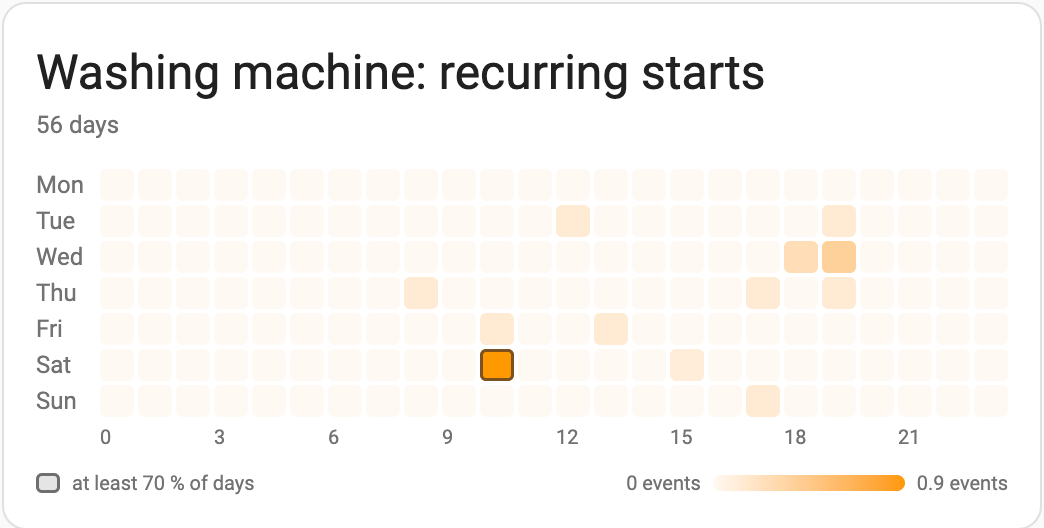
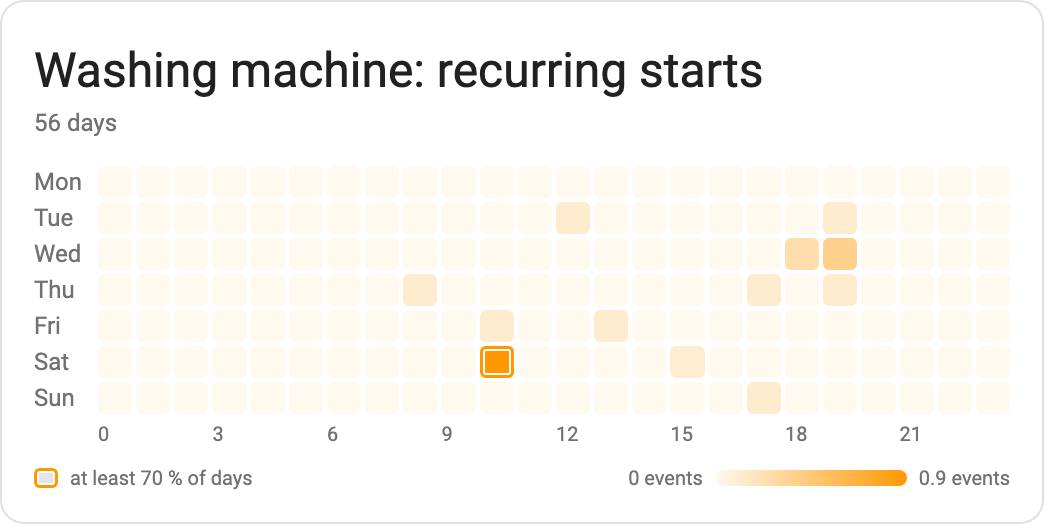
0.9.3: Rahmen der Regelmäßigkeit in der Farbe der Skala, Einzahl „1 Ereignis“
- Rahmen standardmäßig in der obersten Farbe der Skala in voller Deckkraft,
  innen eine feine Linie in der Kartenfarbe als Trennung zur Füllung
  (Variante D aus dem Vergleich in HA; Textfarbe mit 60 % ging unter)
- Einheit bei genau einem Ereignis in Einzahl, auch in Differenzen
- README-Bild neu

Claude-Session: https://claude.ai/code/session_01G4XKpiiZABPYbMXDVDQYXH

diff --git a/preview.html b/preview.html
@@ -108,7 +108,7 @@ customElements.define("ha-chart-base", class extends HTMLElement {
  * Lizenz: MIT
  */
 
-const CARD_VERSION = "0.9.2";
+const CARD_VERSION = "0.9.3";
 
 console.info(
   `%c PATTERN-CARD %c ${CARD_VERSION} `,
@@ -184,6 +184,7 @@ const I18N = {
     chart_unavailable: "Home Assistant's chart component could not be loaded",
     coarse: "hourly (finer statistics do not reach back far enough)",
     events_unit: "events",
+    events_unit_one: "event",
     stat_active: "Share active",
     stat_events: "Events",
     stat_mean: "Mean",
@@ -295,6 +296,7 @@ const I18N = {
     chart_unavailable: "Die Diagramm-Komponente von Home Assistant ließ sich nicht laden",
     coarse: "stündlich (feinere Statistik reicht nicht so weit zurück)",
     events_unit: "Ereignisse",
+    events_unit_one: "Ereignis",
     stat_active: "Anteil aktiv",
     stat_events: "Ereignisse",
     stat_mean: "Mittelwert",
@@ -1084,9 +1086,15 @@ const unitOf = (statistic, info, hass) => {
   return info.unit || "";
 };
 
-const withUnit = (text, unit) => {
+/** Einzahl der Einheit, wo es eine gibt („1 Ereignis“ statt „1 Ereignisse“). */
+const unitOneOf = (statistic, hass) => (statistic === "events" ? translate(hass, "events_unit_one") : undefined);
+
+const withUnit = (text, unit, one) => {
   if (!unit) return text;
-  return unit === "%" ? `${text} %` : `${text} ${unit}`;
+  if (unit === "%") return `${text} %`;
+  // genau eins (auch mit Vorzeichen): Einzahl; 0, Brüche und Mehrzahl bleiben bei der Mehrzahl
+  if (one && /^[+\u2212-]?1$/.test(String(text).trim())) return `${text} ${one}`;
+  return `${text} ${unit}`;
 };
 
 /* --------------------------------------------------------------------------
@@ -1225,7 +1233,7 @@ const buildGraph = (model, ctx) => {
       el.textContent = ctx.fmtTime(b[0]);
       return el;
     }
-    const v = (x) => escapeHtml(withUnit(ctx.fmtNumber(x), ctx.unit));
+    const v = (x) => escapeHtml(withUnit(ctx.fmtNumber(x), ctx.unit, ctx.unitOne));
     const marker = (c) => `<ha-chart-tooltip-marker color="${escapeHtml(c)}"></ha-chart-tooltip-marker>`;
     let rows = cumulative
       ? escapeHtml(ctx.fmtTime(b[k + 1]))
@@ -1380,9 +1388,13 @@ const STYLE = `
   }
   .has-rows .cell { height: 100%; min-height: 4px; }
   .cell.hover { outline: 2px solid var(--primary-text-color); outline-offset: -1px; }
-  /* Regelmäßigkeit: feiner Rahmen innen, ändert weder Füllfarbe noch Größe */
+  /* Regelmäßigkeit: Rahmen innen in der vollen Farbe der Skala (oder color), dahinter
+     eine feine Linie in der Kartenfarbe, die ihn von der Füllung trennt.
+     Ändert weder Füllfarbe noch Größe */
   .cell.regular, .legend .regular, .tooltip .marker.regular {
-    box-shadow: inset 0 0 0 1.5px var(--pc-regular-color, color-mix(in srgb, var(--primary-text-color) 60%, transparent));
+    box-shadow:
+      inset 0 0 0 1.5px var(--pc-regular-color, var(--pc-regular-heat, var(--primary-text-color))),
+      inset 0 0 0 2.5px var(--pc-regular-gap, var(--ha-card-background, var(--card-background-color, #000)));
   }
   .legend .regular {
     display: inline-block; width: 12px; height: 10px; flex: none;
@@ -1921,9 +1933,11 @@ class PatternCard extends HTMLElement {
     }
     const cumulative = m.statistic === "sum" && !!this._config.cumulative;
     const unit = unitOf(m.statistic, this._info, this._hass);
+    const unitOne = unitOneOf(m.statistic, this._hass);
     const { data, options } = buildGraph(m, {
       colors: this._colors(),
       unit,
+      unitOne,
       band: this._config.band || "both",
       hideLegend: !!this._config.hide_legend,
       cumulative,
@@ -1971,6 +1985,7 @@ class PatternCard extends HTMLElement {
     const names = weekdayNames(this._hass);
     const fmt = this._fmt();
     const unit = unitOf(m.statistic, this._info, this._hass);
+    const unitOne = unitOneOf(m.statistic, this._hass);
 
     // Skala
     let lo = cfg.min != null && cfg.min !== "" ? Number(cfg.min) : null;
@@ -2050,14 +2065,14 @@ class PatternCard extends HTMLElement {
     const regLegend = rc
       ? `<span class="regular"></span><span class="reg-text">${escapeHtml(this._t("regularity_legend", { threshold: fmt0(rc.threshold) }))}</span>`
       : "";
-    const scale = `<span dir="ltr">${escapeHtml(withUnit(fmt(lo), unit))}</span><span class="bar" style="background:${gradient}"></span><span dir="ltr">${escapeHtml(withUnit(fmt(hi), unit))}</span>`;
+    const scale = `<span dir="ltr">${escapeHtml(withUnit(fmt(lo), unit, unitOne))}</span><span class="bar" style="background:${gradient}"></span><span dir="ltr">${escapeHtml(withUnit(fmt(hi), unit, unitOne))}</span>`;
     // mit Regelmäßigkeit: Skala als Einheit, damit sie in schmalen Karten geschlossen umbricht
     let legend = rc
       ? `<div class="legend has-reg">${regLegend}<span class="scale">${scale}</span></div>`
       : `<div class="legend">${scale}</div>`;
     if (diff) {
       const dg = `linear-gradient(to right, ${rgbaString([neg[0], neg[1], neg[2], 1])}, ${rgbaString([neg[0], neg[1], neg[2], 0])} 50%, ${rgbaString([pos[0], pos[1], pos[2], 0])} 50%, ${rgbaString([pos[0], pos[1], pos[2], 1])})`;
-      legend += `<div class="legend"><span>${escapeHtml(diffTexts.neg)}</span><span dir="ltr">${escapeHtml(withUnit(signed(-diffMax), unit))}</span><span class="bar" style="background:${dg}"></span><span dir="ltr">${escapeHtml(withUnit(signed(diffMax), unit))}</span><span>${escapeHtml(diffTexts.pos)}</span></div>`;
+      legend += `<div class="legend"><span>${escapeHtml(diffTexts.neg)}</span><span dir="ltr">${escapeHtml(withUnit(signed(-diffMax), unit, unitOne))}</span><span class="bar" style="background:${dg}"></span><span dir="ltr">${escapeHtml(withUnit(signed(diffMax), unit, unitOne))}</span><span>${escapeHtml(diffTexts.pos)}</span></div>`;
     }
 
     if (cfg.hide_legend) legend = "";
@@ -2067,6 +2082,9 @@ class PatternCard extends HTMLElement {
     const card = this.shadowRoot.querySelector("ha-card");
     if (regColor) card.style.setProperty("--pc-regular-color", regColor);
     else card.style.removeProperty("--pc-regular-color");
+    // ohne eigene Farbe: oberste Stufe der Skala in voller Deckkraft
+    const top = stops[stops.length - 1];
+    card.style.setProperty("--pc-regular-heat", rgbaString([top[0], top[1], top[2], 1]));
     content.innerHTML = `<div class="heatmap" style="--pc-slots:${S};--pc-rows:${nRows}">${html}</div>${legend}`;
     this._chart = null;
 
@@ -2087,11 +2105,11 @@ class PatternCard extends HTMLElement {
       if (isDiff) {
         const a = m.rows[0].cells[k];
         const b = m.rows[1].cells[k];
-        const line = (r, cc, color) => `<span class="marker" style="background:${color}"></span>${escapeHtml(rowLabel(r))}: <span dir="ltr">${escapeHtml(cc.value == null ? "–" : withUnit(fmt(cc.value), unit))}</span>`;
+        const line = (r, cc, color) => `<span class="marker" style="background:${color}"></span>${escapeHtml(rowLabel(r))}: <span dir="ltr">${escapeHtml(cc.value == null ? "–" : withUnit(fmt(cc.value), unit, unitOne))}</span>`;
         const mark = (cc) => (cc.value == null ? "var(--secondary-background-color)" : colorOf(cc.value));
-        body = `${escapeHtml(time)}<br>${line(m.rows[0], a, mark(a))}<br>${line(m.rows[1], b, mark(b))}<br>${escapeHtml(diffTexts.label)}: <span dir="ltr">${escapeHtml(c.value == null ? "–" : withUnit(signed(c.value), unit))}</span>`;
+        body = `${escapeHtml(time)}<br>${line(m.rows[0], a, mark(a))}<br>${line(m.rows[1], b, mark(b))}<br>${escapeHtml(diffTexts.label)}: <span dir="ltr">${escapeHtml(c.value == null ? "–" : withUnit(signed(c.value), unit, unitOne))}</span>`;
       } else {
-        const valueText = c.value == null ? "–" : withUnit(fmt(c.value), unit);
+        const valueText = c.value == null ? "–" : withUnit(fmt(c.value), unit, unitOne);
         const color = c.value == null ? "var(--secondary-background-color)" : colorOf(c.value);
         const label = this._t(`stat_${m.statistic}`);
         body = `${escapeHtml(rowLabel(row))} ${escapeHtml(time)}<br><span class="marker" style="background:${color}"></span>${escapeHtml(label)}: <span dir="ltr">${escapeHtml(valueText)}</span><br><span class="muted">${escapeHtml(this._t("avg_of_days", { n: c.n }))}</span>`;
@@ -2415,7 +2433,7 @@ if (window.__PATTERN_CARD_TEST__) window.__patternCard = {
   dayValues, cumulate, quantile, slotStats, computeModel, cssColor, defaultColor, parseRgb, interpolateStops,
   makeNumberFormatter, buildGraph, editorSchema, ensureChartBase, referenceGroups, heatmapRows, WORKDAYS, WEEKEND, bandsFor, dateKey, inGroup,
   axisFractionDigits, niceInterval, makeAxisFormatter, periodPlan, buildDaysFor,
-  regularityConfig, isRegular, slotRegularity,
+  regularityConfig, isRegular, slotRegularity, withUnit,
 };
 
 </script>

diff --git a/pattern-card.js b/pattern-card.js
@@ -14,7 +14,7 @@
  * Lizenz: MIT
  */
 
-const CARD_VERSION = "0.9.2";
+const CARD_VERSION = "0.9.3";
 
 console.info(
   `%c PATTERN-CARD %c ${CARD_VERSION} `,
@@ -90,6 +90,7 @@ const I18N = {
     chart_unavailable: "Home Assistant's chart component could not be loaded",
     coarse: "hourly (finer statistics do not reach back far enough)",
     events_unit: "events",
+    events_unit_one: "event",
     stat_active: "Share active",
     stat_events: "Events",
     stat_mean: "Mean",
@@ -201,6 +202,7 @@ const I18N = {
     chart_unavailable: "Die Diagramm-Komponente von Home Assistant ließ sich nicht laden",
     coarse: "stündlich (feinere Statistik reicht nicht so weit zurück)",
     events_unit: "Ereignisse",
+    events_unit_one: "Ereignis",
     stat_active: "Anteil aktiv",
     stat_events: "Ereignisse",
     stat_mean: "Mittelwert",
@@ -990,9 +992,15 @@ const unitOf = (statistic, info, hass) => {
   return info.unit || "";
 };
 
-const withUnit = (text, unit) => {
+/** Einzahl der Einheit, wo es eine gibt („1 Ereignis“ statt „1 Ereignisse“). */
+const unitOneOf = (statistic, hass) => (statistic === "events" ? translate(hass, "events_unit_one") : undefined);
+
+const withUnit = (text, unit, one) => {
   if (!unit) return text;
-  return unit === "%" ? `${text} %` : `${text} ${unit}`;
+  if (unit === "%") return `${text} %`;
+  // genau eins (auch mit Vorzeichen): Einzahl; 0, Brüche und Mehrzahl bleiben bei der Mehrzahl
+  if (one && /^[+\u2212-]?1$/.test(String(text).trim())) return `${text} ${one}`;
+  return `${text} ${unit}`;
 };
 
 /* --------------------------------------------------------------------------
@@ -1131,7 +1139,7 @@ const buildGraph = (model, ctx) => {
       el.textContent = ctx.fmtTime(b[0]);
       return el;
     }
-    const v = (x) => escapeHtml(withUnit(ctx.fmtNumber(x), ctx.unit));
+    const v = (x) => escapeHtml(withUnit(ctx.fmtNumber(x), ctx.unit, ctx.unitOne));
     const marker = (c) => `<ha-chart-tooltip-marker color="${escapeHtml(c)}"></ha-chart-tooltip-marker>`;
     let rows = cumulative
       ? escapeHtml(ctx.fmtTime(b[k + 1]))
@@ -1286,9 +1294,13 @@ const STYLE = `
   }
   .has-rows .cell { height: 100%; min-height: 4px; }
   .cell.hover { outline: 2px solid var(--primary-text-color); outline-offset: -1px; }
-  /* Regelmäßigkeit: feiner Rahmen innen, ändert weder Füllfarbe noch Größe */
+  /* Regelmäßigkeit: Rahmen innen in der vollen Farbe der Skala (oder color), dahinter
+     eine feine Linie in der Kartenfarbe, die ihn von der Füllung trennt.
+     Ändert weder Füllfarbe noch Größe */
   .cell.regular, .legend .regular, .tooltip .marker.regular {
-    box-shadow: inset 0 0 0 1.5px var(--pc-regular-color, color-mix(in srgb, var(--primary-text-color) 60%, transparent));
+    box-shadow:
+      inset 0 0 0 1.5px var(--pc-regular-color, var(--pc-regular-heat, var(--primary-text-color))),
+      inset 0 0 0 2.5px var(--pc-regular-gap, var(--ha-card-background, var(--card-background-color, #000)));
   }
   .legend .regular {
     display: inline-block; width: 12px; height: 10px; flex: none;
@@ -1827,9 +1839,11 @@ class PatternCard extends HTMLElement {
     }
     const cumulative = m.statistic === "sum" && !!this._config.cumulative;
     const unit = unitOf(m.statistic, this._info, this._hass);
+    const unitOne = unitOneOf(m.statistic, this._hass);
     const { data, options } = buildGraph(m, {
       colors: this._colors(),
       unit,
+      unitOne,
       band: this._config.band || "both",
       hideLegend: !!this._config.hide_legend,
       cumulative,
@@ -1877,6 +1891,7 @@ class PatternCard extends HTMLElement {
     const names = weekdayNames(this._hass);
     const fmt = this._fmt();
     const unit = unitOf(m.statistic, this._info, this._hass);
+    const unitOne = unitOneOf(m.statistic, this._hass);
 
     // Skala
     let lo = cfg.min != null && cfg.min !== "" ? Number(cfg.min) : null;
@@ -1956,14 +1971,14 @@ class PatternCard extends HTMLElement {
     const regLegend = rc
       ? `<span class="regular"></span><span class="reg-text">${escapeHtml(this._t("regularity_legend", { threshold: fmt0(rc.threshold) }))}</span>`
       : "";
-    const scale = `<span dir="ltr">${escapeHtml(withUnit(fmt(lo), unit))}</span><span class="bar" style="background:${gradient}"></span><span dir="ltr">${escapeHtml(withUnit(fmt(hi), unit))}</span>`;
+    const scale = `<span dir="ltr">${escapeHtml(withUnit(fmt(lo), unit, unitOne))}</span><span class="bar" style="background:${gradient}"></span><span dir="ltr">${escapeHtml(withUnit(fmt(hi), unit, unitOne))}</span>`;
     // mit Regelmäßigkeit: Skala als Einheit, damit sie in schmalen Karten geschlossen umbricht
     let legend = rc
       ? `<div class="legend has-reg">${regLegend}<span class="scale">${scale}</span></div>`
       : `<div class="legend">${scale}</div>`;
     if (diff) {
       const dg = `linear-gradient(to right, ${rgbaString([neg[0], neg[1], neg[2], 1])}, ${rgbaString([neg[0], neg[1], neg[2], 0])} 50%, ${rgbaString([pos[0], pos[1], pos[2], 0])} 50%, ${rgbaString([pos[0], pos[1], pos[2], 1])})`;
-      legend += `<div class="legend"><span>${escapeHtml(diffTexts.neg)}</span><span dir="ltr">${escapeHtml(withUnit(signed(-diffMax), unit))}</span><span class="bar" style="background:${dg}"></span><span dir="ltr">${escapeHtml(withUnit(signed(diffMax), unit))}</span><span>${escapeHtml(diffTexts.pos)}</span></div>`;
+      legend += `<div class="legend"><span>${escapeHtml(diffTexts.neg)}</span><span dir="ltr">${escapeHtml(withUnit(signed(-diffMax), unit, unitOne))}</span><span class="bar" style="background:${dg}"></span><span dir="ltr">${escapeHtml(withUnit(signed(diffMax), unit, unitOne))}</span><span>${escapeHtml(diffTexts.pos)}</span></div>`;
     }
 
     if (cfg.hide_legend) legend = "";
@@ -1973,6 +1988,9 @@ class PatternCard extends HTMLElement {
     const card = this.shadowRoot.querySelector("ha-card");
     if (regColor) card.style.setProperty("--pc-regular-color", regColor);
     else card.style.removeProperty("--pc-regular-color");
+    // ohne eigene Farbe: oberste Stufe der Skala in voller Deckkraft
+    const top = stops[stops.length - 1];
+    card.style.setProperty("--pc-regular-heat", rgbaString([top[0], top[1], top[2], 1]));
     content.innerHTML = `<div class="heatmap" style="--pc-slots:${S};--pc-rows:${nRows}">${html}</div>${legend}`;
     this._chart = null;
 
@@ -1993,11 +2011,11 @@ class PatternCard extends HTMLElement {
       if (isDiff) {
         const a = m.rows[0].cells[k];
         const b = m.rows[1].cells[k];
-        const line = (r, cc, color) => `<span class="marker" style="background:${color}"></span>${escapeHtml(rowLabel(r))}: <span dir="ltr">${escapeHtml(cc.value == null ? "–" : withUnit(fmt(cc.value), unit))}</span>`;
+        const line = (r, cc, color) => `<span class="marker" style="background:${color}"></span>${escapeHtml(rowLabel(r))}: <span dir="ltr">${escapeHtml(cc.value == null ? "–" : withUnit(fmt(cc.value), unit, unitOne))}</span>`;
         const mark = (cc) => (cc.value == null ? "var(--secondary-background-color)" : colorOf(cc.value));
-        body = `${escapeHtml(time)}<br>${line(m.rows[0], a, mark(a))}<br>${line(m.rows[1], b, mark(b))}<br>${escapeHtml(diffTexts.label)}: <span dir="ltr">${escapeHtml(c.value == null ? "–" : withUnit(signed(c.value), unit))}</span>`;
+        body = `${escapeHtml(time)}<br>${line(m.rows[0], a, mark(a))}<br>${line(m.rows[1], b, mark(b))}<br>${escapeHtml(diffTexts.label)}: <span dir="ltr">${escapeHtml(c.value == null ? "–" : withUnit(signed(c.value), unit, unitOne))}</span>`;
       } else {
-        const valueText = c.value == null ? "–" : withUnit(fmt(c.value), unit);
+        const valueText = c.value == null ? "–" : withUnit(fmt(c.value), unit, unitOne);
         const color = c.value == null ? "var(--secondary-background-color)" : colorOf(c.value);
         const label = this._t(`stat_${m.statistic}`);
         body = `${escapeHtml(rowLabel(row))} ${escapeHtml(time)}<br><span class="marker" style="background:${color}"></span>${escapeHtml(label)}: <span dir="ltr">${escapeHtml(valueText)}</span><br><span class="muted">${escapeHtml(this._t("avg_of_days", { n: c.n }))}</span>`;
@@ -2321,5 +2339,5 @@ if (window.__PATTERN_CARD_TEST__) window.__patternCard = {
   dayValues, cumulate, quantile, slotStats, computeModel, cssColor, defaultColor, parseRgb, interpolateStops,
   makeNumberFormatter, buildGraph, editorSchema, ensureChartBase, referenceGroups, heatmapRows, WORKDAYS, WEEKEND, bandsFor, dateKey, inGroup,
   axisFractionDigits, niceInterval, makeAxisFormatter, periodPlan, buildDaysFor,
-  regularityConfig, isRegular, slotRegularity,
+  regularityConfig, isRegular, slotRegularity, withUnit,
 };

diff --git a/SPEC.md b/SPEC.md
@@ -133,7 +133,7 @@ regularity:
   enabled: true      # Standard true, wenn das Objekt da ist; false schaltet aus und behält die Werte
   threshold: 70      # Mindestanteil der Tage in %
   min_samples: 4     # Mindestzahl gültiger Tage im Slot
-  color: amber       # optional, wie color; Standard --primary-text-color mit 60 % Deckkraft
+  color: amber       # optional, wie color; Standard die oberste Farbe der Skala in voller Deckkraft (0.9.3, vorher Textfarbe mit 60 %)
 ```
 
 `regularity: true` ist die Kurzform mit Standardwerten.
@@ -142,8 +142,9 @@ regularity:
 - **Berechnung je Zeile und Slot** (`slotRegularity`, in `computeModel` aus denselben befüllten Tagen, keine weitere Abfrage): Nenner `valid` = Tage der Zeile, an denen der Zustand mindestens die Hälfte des Slots bekannt war (`w[k] ≥ 0,5 × Slotlänge`; `unavailable`/`unknown` und Zeit vor Beginn des Verlaufs zählen nicht). Zähler `hits` = davon Tage mit mindestens einem Ereignis (`ev[k] ≥ 1`, dieselbe Ereignislogik wie `events`: Wechsel von inaktiv nach aktiv) bzw. mit aktiver Zeit (`v[k] > 0`, „irgendwann im Slot aktiv“). Mehrere Ereignisse an einem Tag zählen einmal
 - **Heute** zählt wie bei der Füllfarbe nur mit abgeschlossenen Slots. **Zeitumstellung**: Slots nach Wanduhr wie bisher, der leere Slot im Frühjahr hat Länge 0 und zählt nicht, die doppelte Stunde im Herbst zählt einmal mit 2 h
 - **Rahmen**, wenn `valid ≥ min_samples` und `hits / valid ≥ threshold` (genau am Schwellwert: ja; gerechnet ganzzahlig `hits × 100 ≥ threshold × valid`). Unter `min_samples` nie
-- **Darstellung**: `box-shadow: inset 0 0 0 1.5px` in der Rahmenfarbe. Ändert weder Füllfarbe noch Zellgröße, liegt unter dem Hover-Rahmen. Legende links „an mind. 70 % der Tage“ mit Musterzelle (entfällt mit `hide_legend`). In schmalen Karten bricht die Skala (Min, Balken, Max) als Einheit in die nächste Zeile (0.9.1/0.9.2, gesehen in HA bei einer Spalte im Sections-Raster)
+- **Darstellung**: `box-shadow: inset 0 0 0 1.5px` in der Rahmenfarbe, dahinter `inset 0 0 0 2.5px` in der Kartenfarbe als feine Trennlinie zur Füllung (0.9.3, Variante D aus dem Vergleich in HA: Textfarbe mit 60 % ging auf kräftigen Zellen unter). Ändert weder Füllfarbe noch Zellgröße, liegt unter dem Hover-Rahmen. Legende links „an mind. 70 % der Tage“ mit Musterzelle (entfällt mit `hide_legend`). In schmalen Karten bricht die Skala (Min, Balken, Max) als Einheit in die nächste Zeile (0.9.1/0.9.2, gesehen in HA bei einer Spalte im Sections-Raster)
 - **Tooltip** zusätzlich „Regelmäßigkeit: 75 %“ (mit Rahmen-Marker, wenn markiert) und „Ereignis an 6 von 8 Samstagen“ bzw. „Aktiv an …“, in Gruppenzeilen „… von 16 Tagen“. Unter `min_samples` der Hinweis „zu wenige Tage für den Rahmen (mind. 4)“
+- **Einheit Ereignisse** (0.9.3): genau eins in Einzahl („1 Ereignis“, auch „+1“/„−1“ in der Differenz), sonst Mehrzahl („0“, „1,5“, „2 Ereignisse“). Gilt für Legende, Tooltip und Graph
 - **Vergleich**: je Gruppenzeile eigene Regelmäßigkeit, die Differenzzeile bekommt keinen Rahmen und keinen Zusatz im Tooltip
 - **Editor**: Schalter „Regelmäßige Ereignisse hervorheben“, danach Mindesthäufigkeit (%), Mindestanzahl Referenztage, Rahmenfarbe. Standardwerte werden nicht geschrieben (`regularity: { enabled: true }`)
 - **Abweichung von der Zahl der Tage im Tooltip** („Ø aus n Tagen“): Der Füllwert nutzt wie bisher jeden Tag mit bekannter Zeit im Slot, die Regelmäßigkeit nur Tage mit mindestens halbem Slot. An den Rändern des Verlaufs kann der Nenner deshalb kleiner sein

diff --git a/README.md b/README.md
@@ -182,7 +182,7 @@ All options can also be set in the visual editor.
 | `regularity.enabled` | `true` | `false` turns the border off but keeps the settings |
 | `regularity.threshold` | `70` | Minimum share of days (%) with at least one event (`events`) or with active time (`active`) in the slot. Several events on the same day count once |
 | `regularity.min_samples` | `4` | Minimum number of days with data in the slot; below it there is no border, as one event on one day would be 100 % |
-| `regularity.color` | primary text, 60 % | Border color: hex, CSS or a theme color name such as `amber` |
+| `regularity.color` | heatmap color, full strength | Border color: hex, CSS or a theme color name such as `amber`. A thin line in the card background color separates the border from the fill |
 
 ## How it works
 
